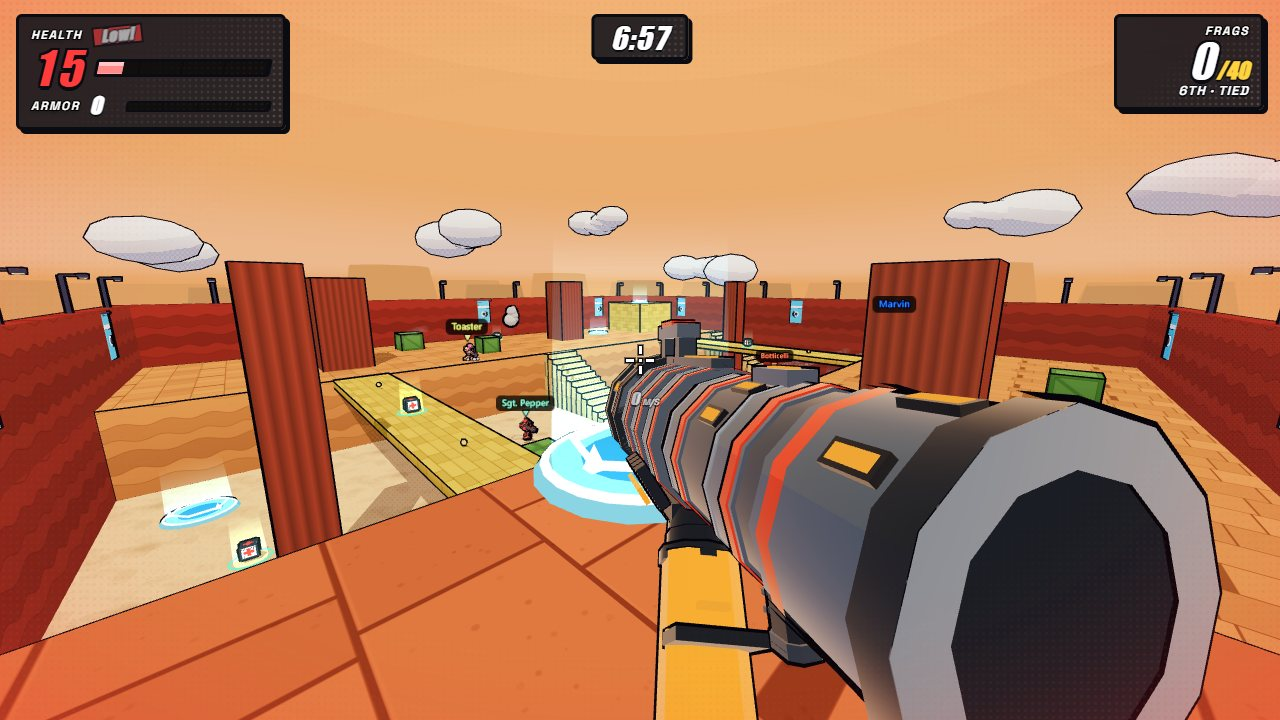
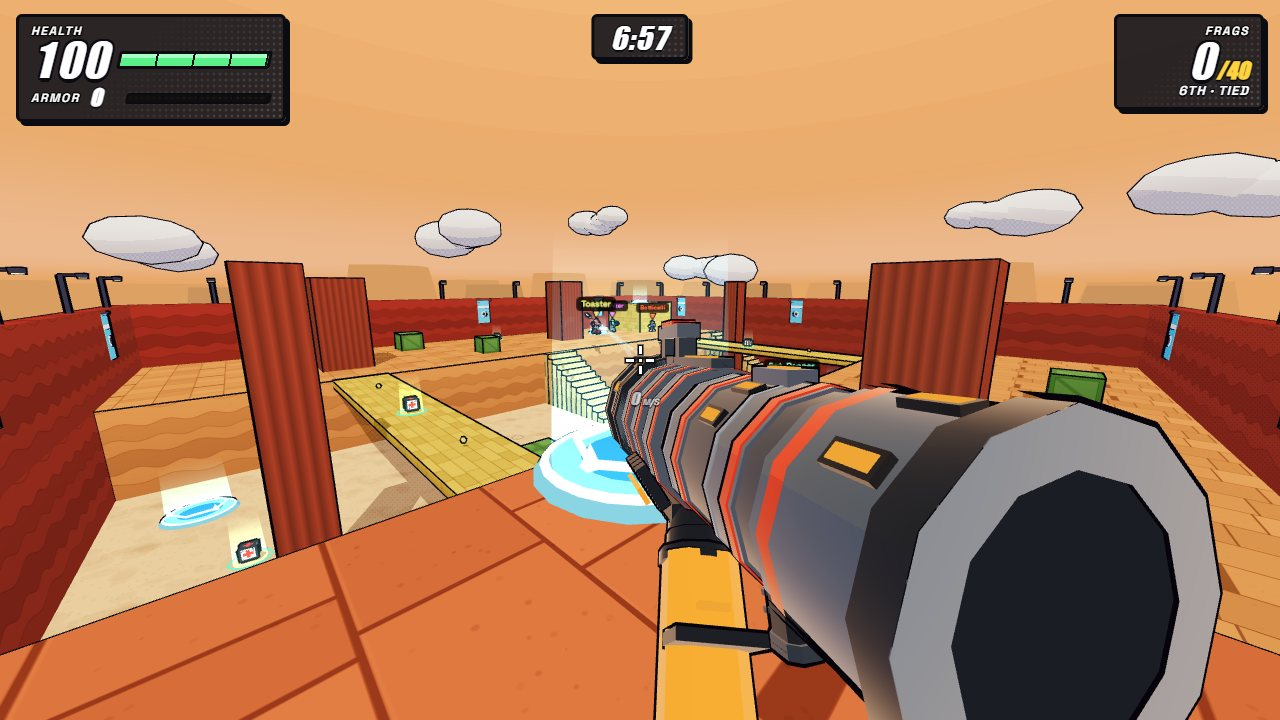
play: Rockets neon grade: gentler saturation lift, hot pink instead of pure magenta

diff --git a/play/frontend/src/games/rockets/bloom.ts b/play/frontend/src/games/rockets/bloom.ts
@@ -85,7 +85,7 @@ export function createBloom(renderer: THREE.WebGLRenderer, opts: { threshold?: n
     depthWrite: false,
   });
   const combine = new THREE.ShaderMaterial({
-    uniforms: { src: { value: scene.texture }, bloom: { value: mips[0].texture }, strength: { value: opts.strength ?? 0.7 }, saturation: { value: opts.saturation ?? 1.25 } },
+    uniforms: { src: { value: scene.texture }, bloom: { value: mips[0].texture }, strength: { value: opts.strength ?? 0.7 }, saturation: { value: opts.saturation ?? 1.12 } },
     vertexShader: VERT,
     fragmentShader: /* glsl */ `
       uniform sampler2D src;
